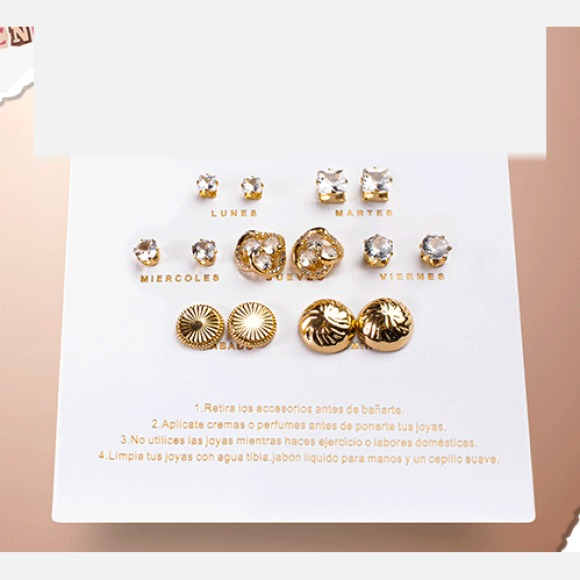
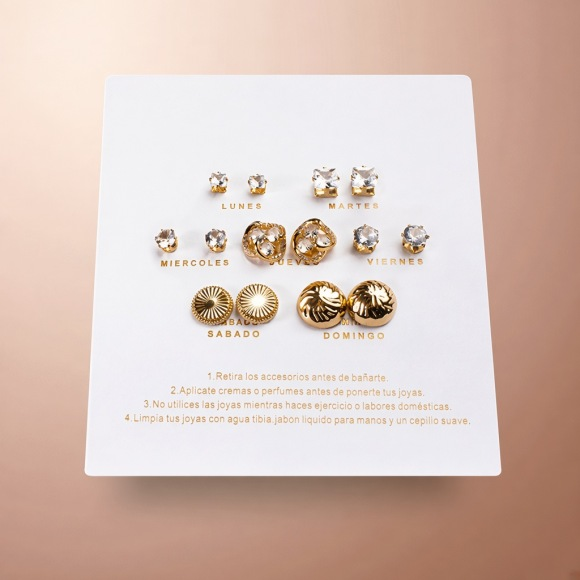
Limpia semanarios con IA para quitar branding raro.
Reemplaza fotos de tarjeta con versiones retocadas sin cajas blancas.

diff --git a/index.html b/index.html
@@ -514,7 +514,7 @@
       productos.find((p) => /topo|arete|duo/i.test(p.name) && !/semanario/i.test(p.name)) ||
       productos[0];
     if (heroPick) {
-      document.getElementById("heroBg").style.backgroundImage = `url("${heroPick.image}?v=4")`;
+      document.getElementById("heroBg").style.backgroundImage = `url("${heroPick.image}?v=5")`;
     }
 
     const buyLink = (p) => {
@@ -562,7 +562,7 @@
         <article class="card" style="animation-delay:${Math.min(i, 16) * 35}ms">
           <div class="media">
             ${p.gift ? `<span class="badge">Campaña</span>` : ""}
-            <img src="${p.image}?v=4" alt="${titleCase(p.name)}" loading="lazy" />
+            <img src="${p.image}?v=5" alt="${titleCase(p.name)}" loading="lazy" />
           </div>
           <div class="info">
             <div class="code">${p.code}</div>
